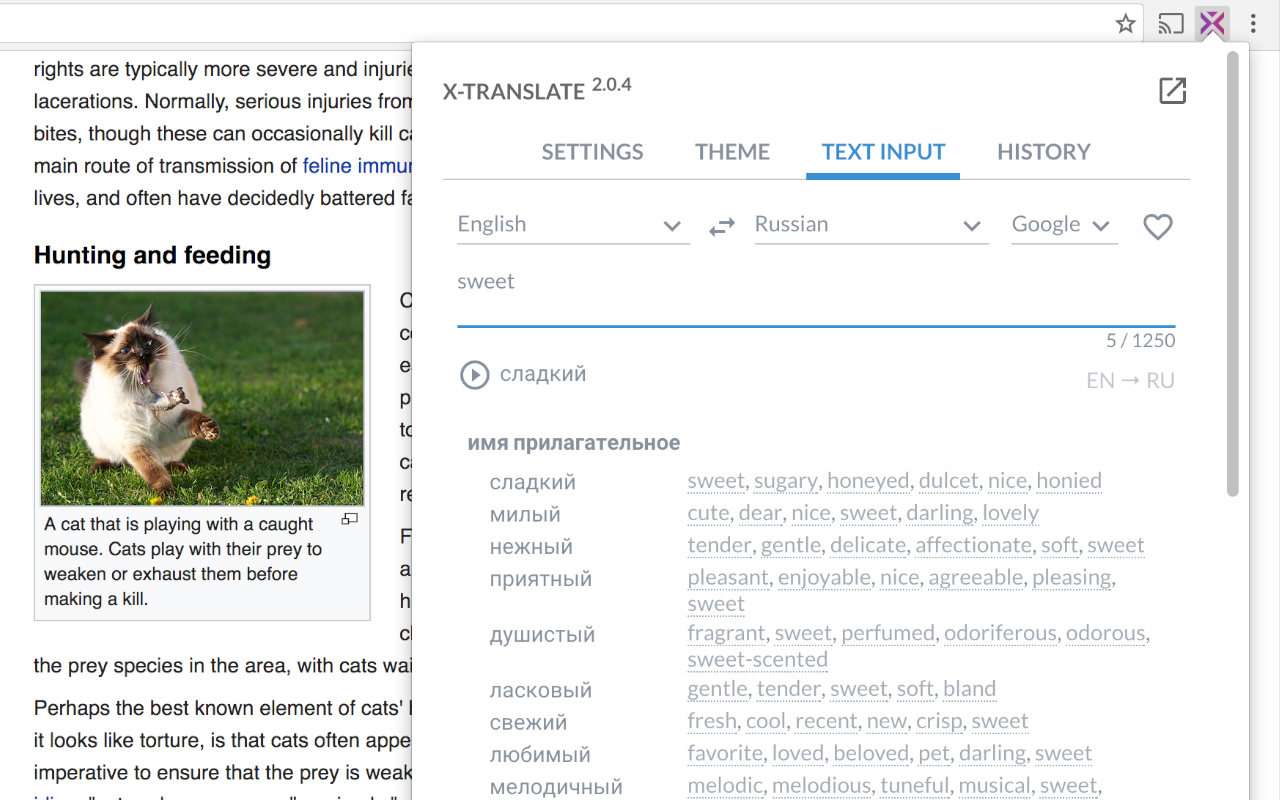
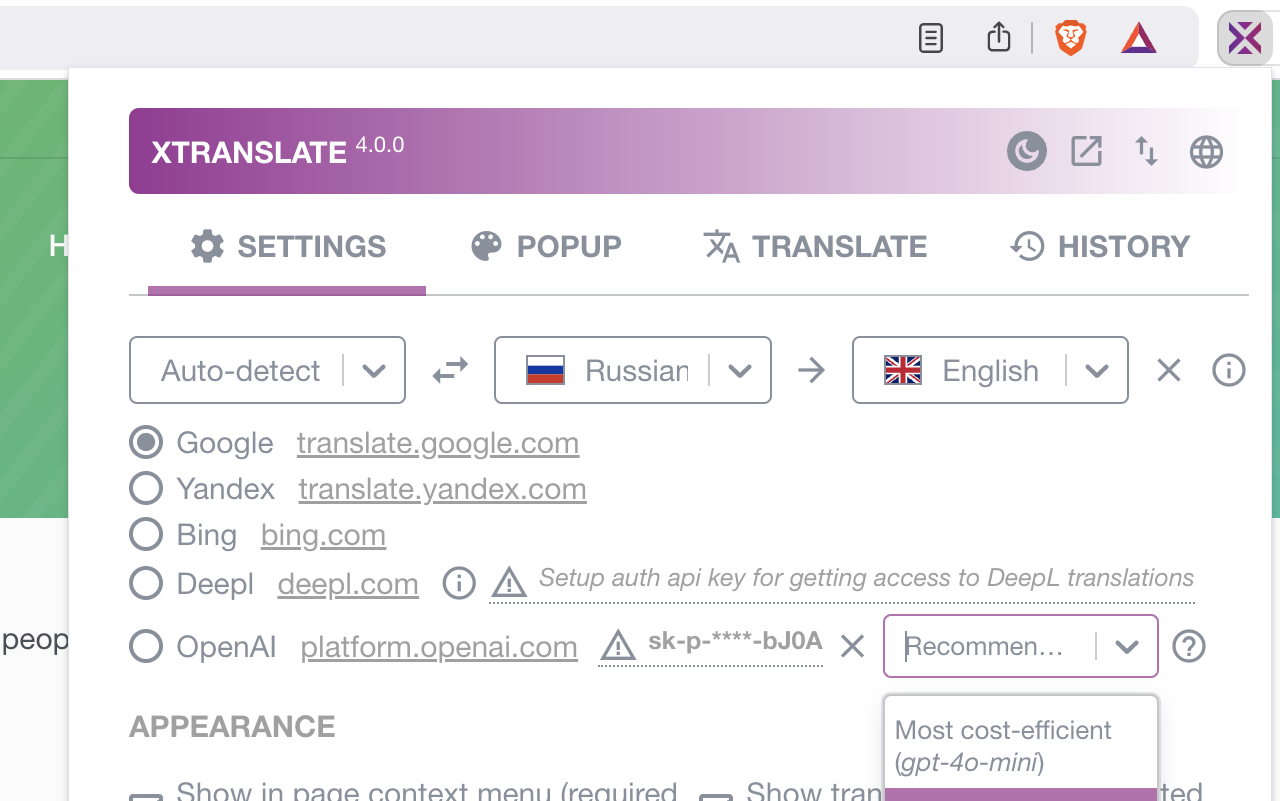
chore: updated readme and screenshot

diff --git a/README.md b/README.md
@@ -53,6 +53,20 @@ Available translation vendors:
 * [Yandex](http://translate.yandex.com/)
 * [Bing](http://bing.com/translator/)
 * [DeepL](https://www.deepl.com/) _(requires own user key, register at https://www.deepl.com/en/signup/)_
+* [OpenAI (ChatGPT)](https://platform.openai.com) _(see registration steps below)_
+
+Steps for access OpenAI translations:
+------
+1) [Sign up](https://platform.openai.com/signup) if not yet registered or go to [OpenAI platform settings](https://platform.openai.com/settings) 
+2) Create api access key to get access for OpenAI translation service results 
+3) Top-up your balance (5$+) and disable credit card's auto-top-up balance at [billing page](https://platform.openai.com/settings/organization/billing/overview) _(recommended)_
+4) Don't forget to adjust [limits settings](https://platform.openai.com/settings/organization/limits) _(recommended)_
+
+Security considerations:
+------
+- OpenAI key handled via extension-scoped [chrome.storage.local](https://developer.chrome.com/docs/extensions/reference/api/storage)
+and used only within `Authorization` header to sign OpenAI API requests (which is not exposed or tracked, even with `webRequest` API enabled, [see excluded list of headers](https://developer.chrome.com/docs/extensions/reference/api/webRequest#concepts_and_usage)).
+- Don't enter or share your OpenAI key anywhere else except extension's settings page (options page)
 
 For developers and contributors:
 -----------
